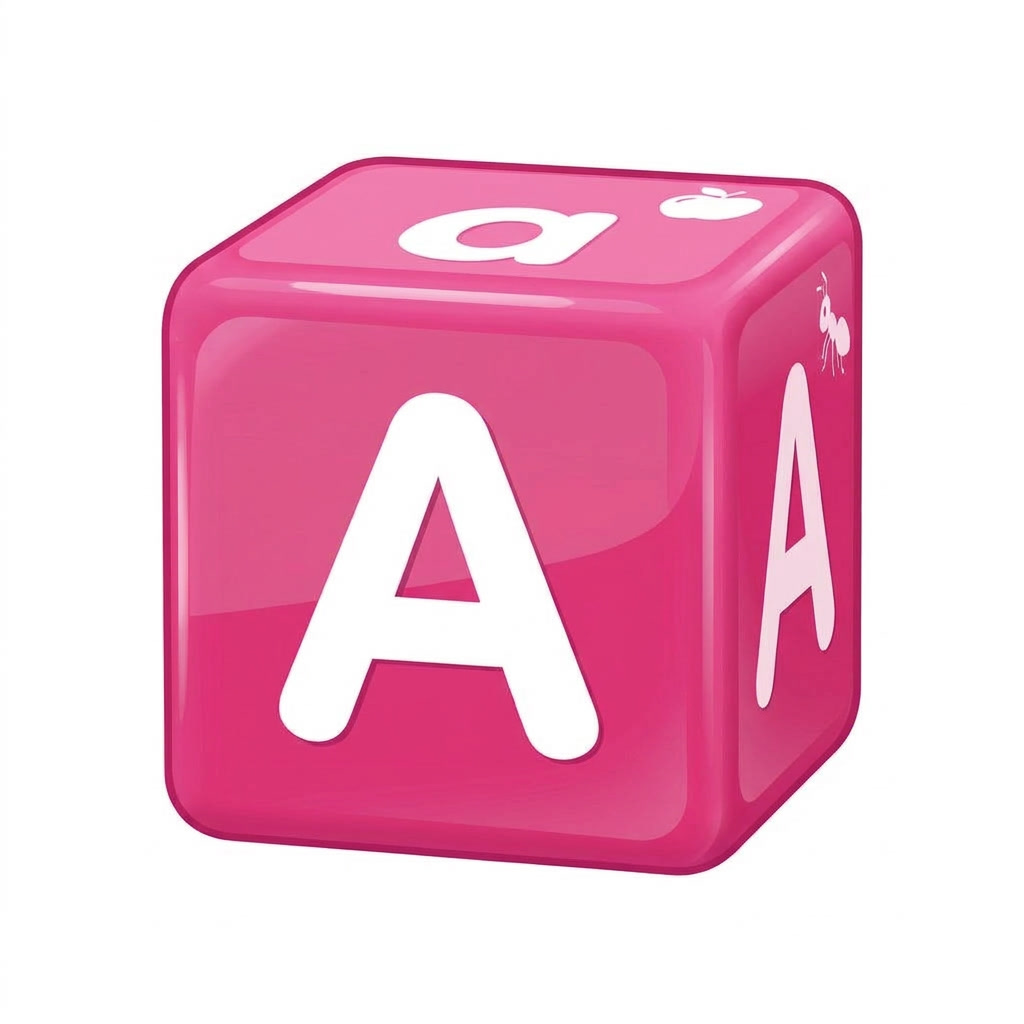
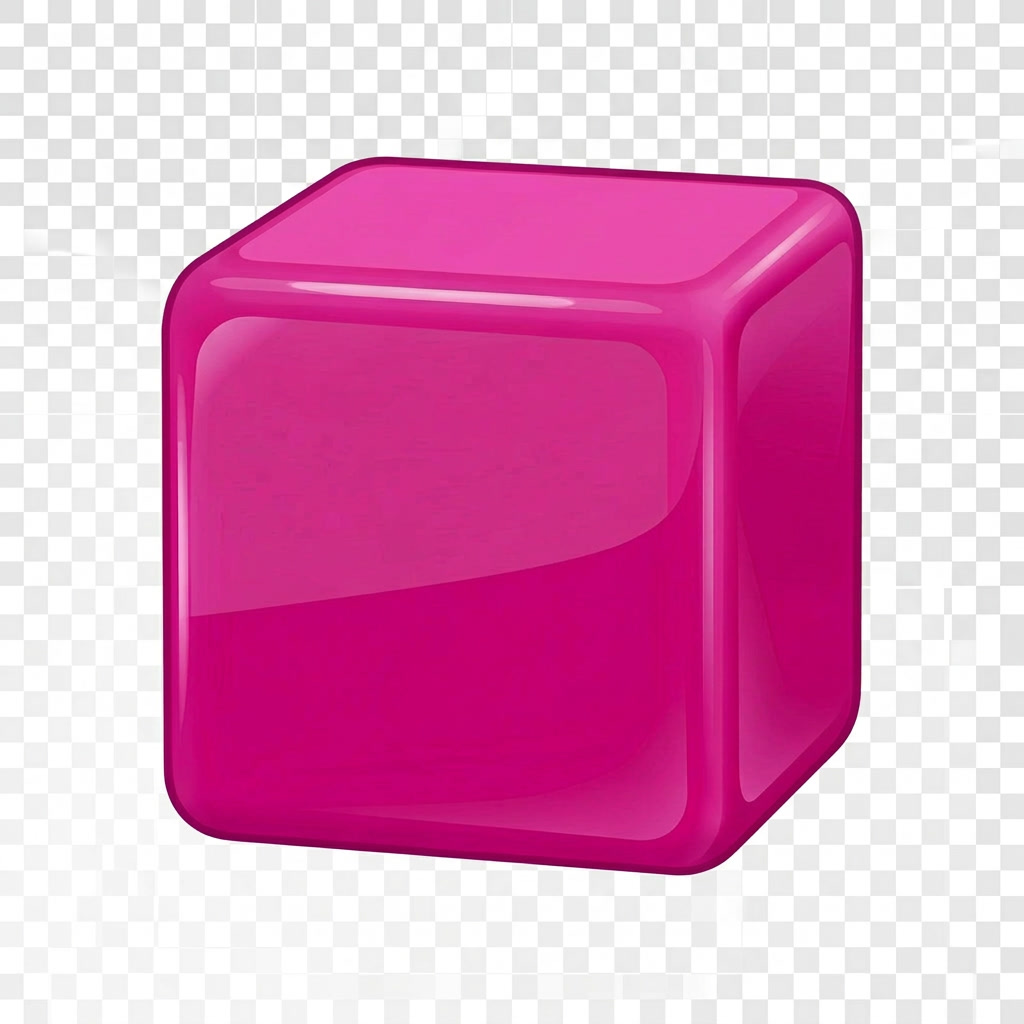
Use blank Leonardo cube images with letter overlay
Replace cubes with blank glossy 3D cube images (no letters baked in).
Letter text is overlaid via CSS on the front face center.

diff --git a/vite-prod/src/components/games/alphabet-tower/components/LetterCube.jsx b/vite-prod/src/components/games/alphabet-tower/components/LetterCube.jsx
@@ -1,6 +1,6 @@
 import React from 'react';
 
-// Map hex colors to cube image files
+// Map hex colors to blank cube image files
 const COLOR_TO_IMAGE = {
   '#ef4444': '/images/games/cube-red.jpg',
   '#f59e0b': '/images/games/cube-orange.jpg',
@@ -12,9 +12,7 @@ const COLOR_TO_IMAGE = {
 
 /**
  * LetterCube - A 3D toy-block letter cube for the Alphabet Tower game.
- *
- * Uses Leonardo AI-generated cube images with letter overlay.
- * Supports drag, placed, wrong, and ghost states with matching animations.
+ * Uses Leonardo AI blank cube images with letter text overlay.
  */
 const LetterCube = React.memo(function LetterCube({
   letter = '',
@@ -41,6 +39,47 @@ const LetterCube = React.memo(function LetterCube({
           ? 'cube-ghost'
           : 'cube-idle';
 
+  if (isGhost) {
+    return (
+      <div
+        className={`letter-cube-wrapper ${stateClass} ${className}`}
+        style={{
+          width: size,
+          height: size,
+          position: 'relative',
+          cursor: 'default',
+          userSelect: 'none',
+          WebkitUserSelect: 'none',
+          touchAction: 'none',
+          ...style,
+        }}
+      >
+        <div style={{
+          width: size,
+          height: size,
+          borderRadius: size * 0.16,
+          border: '2.5px dashed rgba(150,150,150,0.5)',
+          background: 'rgba(200,200,200,0.12)',
+          display: 'flex',
+          alignItems: 'center',
+          justifyContent: 'center',
+        }}>
+          {letter && (
+            <span style={{
+              fontSize: size * 0.42,
+              fontWeight: 800,
+              color: 'rgba(150,150,150,0.3)',
+              fontFamily: "'Fredoka', 'Heebo', 'Inter', sans-serif",
+              lineHeight: 1,
+            }}>
+              {letter}
+            </span>
+          )}
+        </div>
+      </div>
+    );
+  }
+
   return (
     <div
       className={`letter-cube-wrapper ${stateClass} ${className}`}
@@ -48,7 +87,7 @@ const LetterCube = React.memo(function LetterCube({
         width: size,
         height: size,
         position: 'relative',
-        cursor: isDragging ? 'grabbing' : isGhost ? 'default' : 'grab',
+        cursor: isDragging ? 'grabbing' : 'grab',
         userSelect: 'none',
         WebkitUserSelect: 'none',
         touchAction: 'none',
@@ -57,97 +96,59 @@ const LetterCube = React.memo(function LetterCube({
       }}
       onPointerDown={onPointerDown}
     >
-      {/* ---- Drag glow aura ---- */}
+      {/* Drag glow */}
       {isDragging && (
-        <div
-          style={{
-            position: 'absolute',
-            inset: -6,
-            borderRadius: size * 0.18,
-            background: 'radial-gradient(circle, rgba(255,255,255,0.3) 0%, transparent 70%)',
-            boxShadow: `0 0 20px 6px ${baseColor}55, 0 0 40px 10px ${baseColor}22`,
-            animation: 'drag-glow 1s ease-in-out infinite alternate',
-            pointerEvents: 'none',
-            zIndex: 0,
-          }}
-        />
+        <div style={{
+          position: 'absolute',
+          inset: -8,
+          borderRadius: size * 0.2,
+          background: `radial-gradient(circle, ${baseColor}40 0%, transparent 70%)`,
+          boxShadow: `0 0 24px 8px ${baseColor}44`,
+          animation: 'cube-drag-glow 1s ease-in-out infinite alternate',
+          pointerEvents: 'none',
+          zIndex: 0,
+        }} />
       )}
 
-      {/* ---- Cube image ---- */}
-      {isGhost ? (
-        <div
-          style={{
-            width: size,
-            height: size,
-            borderRadius: size * 0.16,
-            border: '2.5px dashed rgba(150,150,150,0.5)',
-            background: 'rgba(200,200,200,0.15)',
-            opacity: 0.4,
-          }}
-        />
-      ) : (
-        <img
-          src={cubeImage}
-          alt=""
-          draggable={false}
-          style={{
-            width: size,
-            height: size,
-            objectFit: 'cover',
-            borderRadius: size * 0.14,
-            pointerEvents: 'none',
-            filter: isDragging ? 'brightness(1.1) drop-shadow(0 4px 12px rgba(0,0,0,0.3))' : undefined,
-          }}
-        />
-      )}
+      {/* Cube image */}
+      <img
+        src={cubeImage}
+        alt=""
+        draggable={false}
+        style={{
+          width: size,
+          height: size,
+          objectFit: 'contain',
+          pointerEvents: 'none',
+          filter: isDragging
+            ? 'brightness(1.1) drop-shadow(0 6px 12px rgba(0,0,0,0.35))'
+            : 'drop-shadow(0 2px 4px rgba(0,0,0,0.15))',
+        }}
+      />
 
-      {/* ---- Letter overlay ---- */}
-      {!isGhost && (
-        <span
-          style={{
-            position: 'absolute',
-            top: '38%',
-            left: '32%',
-            transform: 'translate(-50%, -50%)',
-            fontSize: size * 0.48,
-            fontWeight: 900,
-            color: '#fff',
-            textShadow: '0 2px 6px rgba(0,0,0,0.4), 0 0 10px rgba(255,255,255,0.25)',
-            lineHeight: 1,
-            fontFamily: "'Fredoka', 'Heebo', 'Inter', sans-serif",
-            zIndex: 2,
-            pointerEvents: 'none',
-          }}
-        >
-          {letter}
-        </span>
-      )}
-
-      {/* Ghost letter hint */}
-      {isGhost && letter && (
-        <span
-          style={{
-            position: 'absolute',
-            top: '50%',
-            left: '50%',
-            transform: 'translate(-50%, -50%)',
-            fontSize: size * 0.4,
-            fontWeight: 800,
-            color: 'rgba(150,150,150,0.35)',
-            lineHeight: 1,
-            fontFamily: "'Fredoka', 'Heebo', 'Inter', sans-serif",
-            pointerEvents: 'none',
-          }}
-        >
-          {letter}
-        </span>
-      )}
+      {/* Letter overlay — positioned on the front face */}
+      <span style={{
+        position: 'absolute',
+        top: '46%',
+        left: '40%',
+        transform: 'translate(-50%, -50%)',
+        fontSize: size * 0.46,
+        fontWeight: 900,
+        color: '#fff',
+        textShadow: '0 2px 6px rgba(0,0,0,0.45), 0 0 10px rgba(255,255,255,0.2)',
+        lineHeight: 1,
+        fontFamily: "'Fredoka', 'Heebo', 'Inter', sans-serif",
+        zIndex: 2,
+        pointerEvents: 'none',
+      }}>
+        {letter}
+      </span>
 
       {isDragging && (
         <style>{`
-          @keyframes drag-glow {
-            0% { box-shadow: 0 0 16px 4px ${baseColor}44, 0 0 32px 8px ${baseColor}18; }
-            100% { box-shadow: 0 0 24px 8px ${baseColor}66, 0 0 48px 14px ${baseColor}28; }
+          @keyframes cube-drag-glow {
+            0% { box-shadow: 0 0 16px 4px ${baseColor}44; }
+            100% { box-shadow: 0 0 28px 10px ${baseColor}66; }
           }
         `}</style>
       )}
